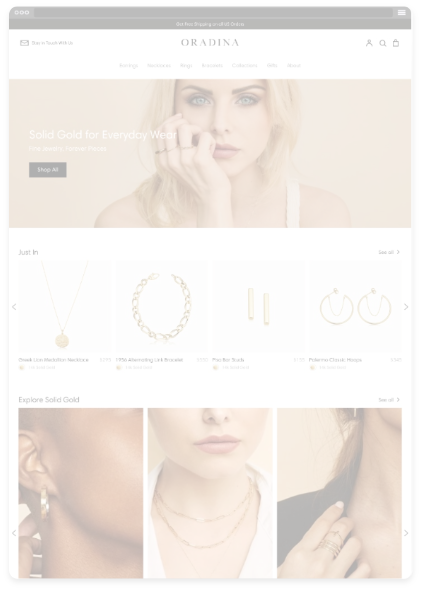
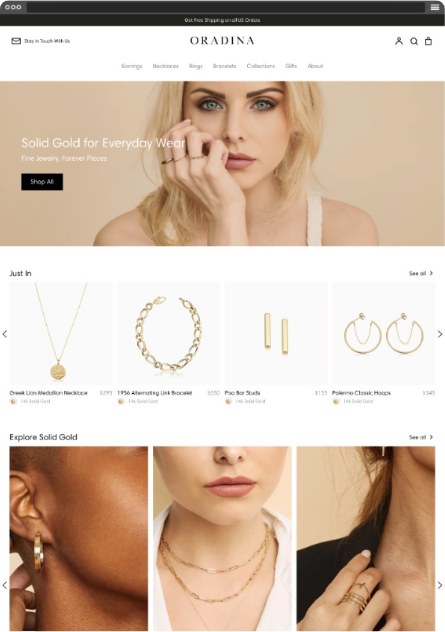
B2C: Carousel Image & gap update

diff --git a/app/b2c/sections/CommerceLeadersSection.tsx b/app/b2c/sections/CommerceLeadersSection.tsx
@@ -77,11 +77,11 @@ const CommerceLeadersSection = () => {
 
             <GridCol
               span="CD"
-              className="relative h-105"
+              className="relative h-150"
               style={{ overflow: "visible", padding: 0, margin: 0 }}
             >
               <div
-                className="absolute left-0 top-0 bottom-0 h-full"
+                className="absolute left-0 top-0 bottom-0 h-full mt-5 mb-10"
                 style={{ width: "150%", overflow: "visible" }}
               >
                 <div
